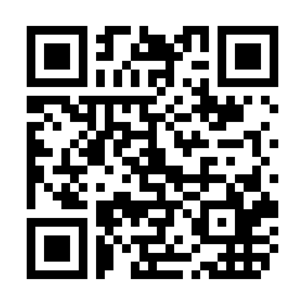
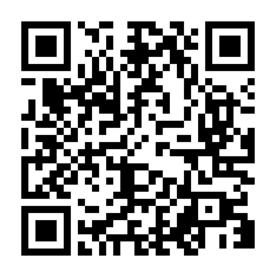
0126
0126

diff --git a/www/js/index.js b/www/js/index.js
@@ -23,10 +23,10 @@ var app = {
     receivedEvent: function(id) {
 		
 		if(PushbotsPlugin.isiOS()){
-			PushbotsPlugin.initializeiOS("563244dd1779594b6c8b4567");
+			PushbotsPlugin.initializeiOS("56090d8e17795901288b4567");
 		}
 		if(PushbotsPlugin.isAndroid()){
-			PushbotsPlugin.initializeAndroid("563244dd1779594b6c8b4567", "553856486263");
+			PushbotsPlugin.initializeAndroid("56090d8e17795901288b4567", "1068247241830");
 		}
 		
 		//PushbotsPlugin.resetBadge();
@@ -719,11 +719,11 @@ function regToken() {
 	$(".spinner").show();
 	$.ajax({
 		   type:"GET",
-		   url:"http://interactivebusinessapp.it/device/set_token/PxgLiaL7dBgTYUzUyHZRNGIUlT5NIabyHrkZC57PHoJGiiAQZA/DW1RUcKbUmsw1K5eygLH0VwSJjoGdrORnQIi2suWPWtQGz4ePQ/"+ localStorage.getItem("Token") +"",
+		   url:"http://interactivebusinessapp.it/device/set_token/PxgLiaL7dBgTYUzUyHZRNGIUlT5NIabyHrkZC57PHoJGiiAQZA/JXF5HSOC6ybA5F4g0jxKiqDxRlxwz5Wi3BnKucnAKzaQff7fzE/"+ localStorage.getItem("Token") +"",
 		   //url:"http://interactivebusinessapp.it/device/set_token/{platform_code}/{company_code}/{device_token}",
 		   //Android PxgLiaL7dBgTYUzUyHZRNGIUlT5NIabyHrkZC57PHoJGiiAQZA
 		   //data: {token:localStorage.getItem("Token")},
-		   //DW1RUcKbUmsw1K5eygLH0VwSJjoGdrORnQIi2suWPWtQGz4ePQ
+		   //JXF5HSOC6ybA5F4g0jxKiqDxRlxwz5Wi3BnKucnAKzaQff7fzE
 		   contentType: "application/json; charset=utf-8",
 		   json: 'callback',
 		   timeout: 7000,
@@ -894,7 +894,7 @@ function aprimail () {
 window.plugin.email.open({
 	to:      "",
 	subject: "Contatto",
-	body:    "La Digital Bisiness Card IBA di 'Elvira Collura' e' disponibile al link http://www.interactivebusinessapp.it/download/colap",
+	body:    "La Digital Bisiness Card IBA di 'Elvira Collura' e' disponibile al link http://www.interactivebusinessapp.it/download/e_collura",
 	isHtml:  true
 });
 
@@ -947,7 +947,7 @@ window.plugin.email.open({
 
 function mandasms () {
 	
-	window.plugins.socialsharing.shareViaSMS("La Digital Bisiness Card IBA di 'CoLAP' e' disponibile al link http://www.interactivebusinessapp.it/download/colap", "", function(msg) {console.log('ok: ' + msg)}, function(msg) {alert('error: ' + msg)})
+	window.plugins.socialsharing.shareViaSMS("La Digital Bisiness Card IBA di 'Elvira Collura' e' disponibile al link http://www.interactivebusinessapp.it/download/e_collura", "", function(msg) {console.log('ok: ' + msg)}, function(msg) {alert('error: ' + msg)})
 }
 
 function mandasms5 () {
